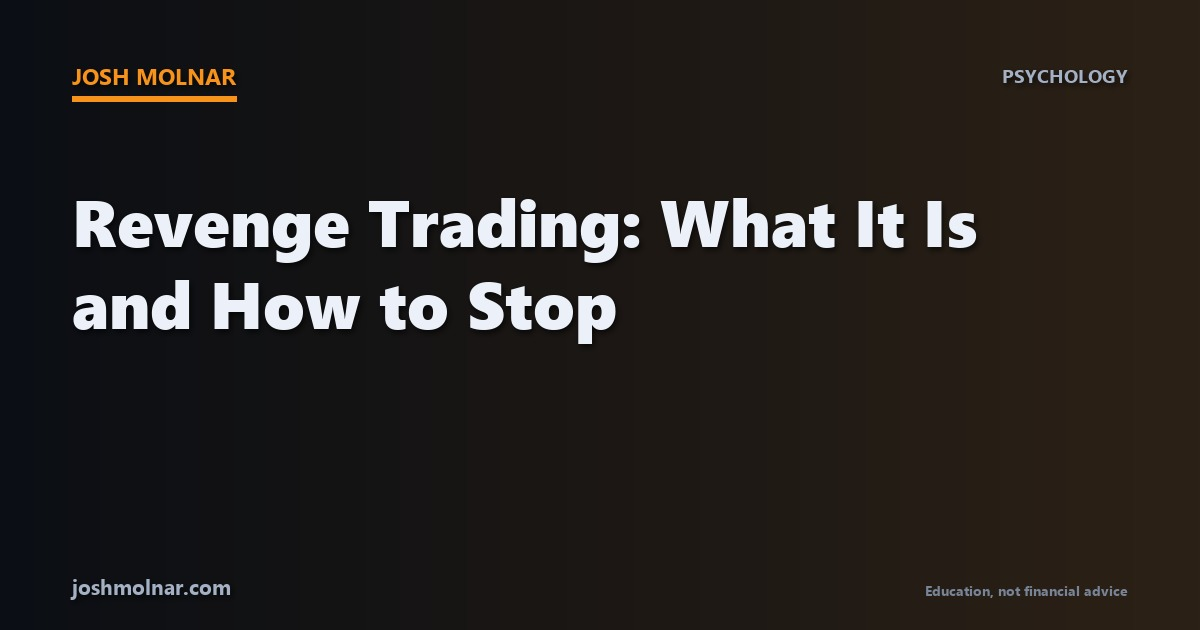
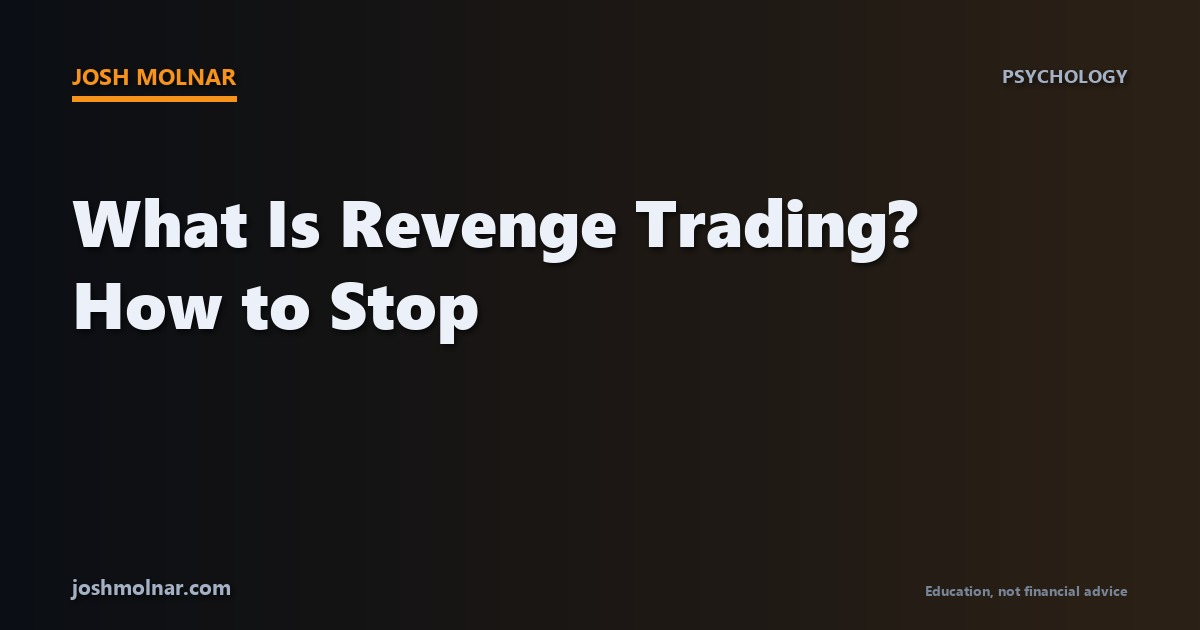
blog: What Is Revenge Trading? How to Stop

Changed region(s): [[0.0617, 0.3016, 0.8325, 0.4222], [0.0617, 0.4524, 0.5242, 0.5429]]

diff --git a/blog/revenge-trading.html b/blog/revenge-trading.html
@@ -3,37 +3,37 @@
 <head>
   <meta charset="utf-8" />
   <meta name="viewport" content="width=device-width, initial-scale=1" />
-  <title>Revenge Trading: What It Is and How to Stop | Josh Molnar</title>
-  <meta name="description" content="Revenge trading destroys more accounts than bad strategies. Learn what it is, why it happens, and the simple rules that stop it." />
+  <title>What Is Revenge Trading? How to Stop | Josh Molnar</title>
+  <meta name="description" content="What is revenge trading and why does it destroy accounts? Learn what causes it, how to recognize it, and simple steps to stop revenge trading for good." />
   <link rel="canonical" href="https://joshmolnar.com/blog/revenge-trading.html" />
   <meta property="og:type" content="article" />
-  <meta property="og:title" content="Revenge Trading: What It Is and How to Stop" />
-  <meta property="og:description" content="You lost a trade. Now you want it back. That next click is the most expensive mistake in trading." />
+  <meta property="og:title" content="What Is Revenge Trading? How to Stop" />
+  <meta property="og:description" content="Revenge trading is not a strategy. It is your emotions placing the next trade for you." />
   <meta property="og:url" content="https://joshmolnar.com/blog/revenge-trading.html" />
   <meta property="og:image" content="https://joshmolnar.com/assets/blog/revenge-trading.jpg" />
   <meta property="og:image:width" content="1200" />
   <meta property="og:image:height" content="630" />
   <meta name="twitter:card" content="summary_large_image" />
-  <meta name="twitter:title" content="Revenge Trading: What It Is and How to Stop" />
-  <meta name="twitter:description" content="You lost a trade. Now you want it back. That next click is the most expensive mistake in trading." />
+  <meta name="twitter:title" content="What Is Revenge Trading? How to Stop" />
+  <meta name="twitter:description" content="Revenge trading is not a strategy. It is your emotions placing the next trade for you." />
   <meta name="twitter:image" content="https://joshmolnar.com/assets/blog/revenge-trading.jpg" />
   <link rel="stylesheet" href="/styles.css" />
   <script type="application/ld+json">
   {
     "@context": "https://schema.org",
     "@type": "BlogPosting",
-    "headline": "Revenge Trading: What It Is and How to Stop",
+    "headline": "What Is Revenge Trading? How to Stop",
     "image": "https://joshmolnar.com/assets/blog/revenge-trading.jpg",
-    "description": "Revenge trading destroys more accounts than bad strategies. Learn what it is, why it happens, and the simple rules that stop it.",
-    "datePublished": "2026-06-19",
-    "dateModified": "2026-06-19",
+    "description": "What is revenge trading and why does it destroy accounts? Learn what causes it, how to recognize it, and simple steps to stop revenge trading for good.",
+    "datePublished": "2026-10-31",
+    "dateModified": "2026-10-31",
     "mainEntityOfPage": "https://joshmolnar.com/blog/revenge-trading.html",
     "author": { "@type": "Person", "@id": "https://joshmolnar.com/#person", "name": "Josh Molnar", "url": "https://joshmolnar.com/" },
     "publisher": { "@type": "Person", "@id": "https://joshmolnar.com/#person", "name": "Josh Molnar" }
   }
   </script>
   <script type="application/ld+json">
-  {"@context": "https://schema.org", "@type": "FAQPage", "mainEntity": [{"@type": "Question", "name": "What is revenge trading?", "acceptedAnswer": {"@type": "Answer", "text": "Revenge trading is entering a trade to recover a loss rather than following your normal process. The motivation shifts from a real setup to an emotional need to erase the pain of losing."}}, {"@type": "Question", "name": "Why is revenge trading so dangerous?", "acceptedAnswer": {"@type": "Answer", "text": "Because it changes two things at once: your position size goes up and your trade quality goes down. That combination can turn a small, survivable loss into a serious account hit in minutes."}}, {"@type": "Question", "name": "How do I stop revenge trading?", "acceptedAnswer": {"@type": "Answer", "text": "Set a daily loss limit and honor it, take a short break after every loss, and keep your position size constant. Build rules that remove the opportunity rather than relying on willpower in the moment."}}, {"@type": "Question", "name": "Is revenge trading the same as overtrading?", "acceptedAnswer": {"@type": "Answer", "text": "They overlap but are not identical. Overtrading is taking too many trades in general. Revenge trading is specifically trading to recover a loss. Revenge trading almost always leads to overtrading, but you can overtrade without the revenge trigger."}}, {"@type": "Question", "name": "Can experienced traders still revenge trade?", "acceptedAnswer": {"@type": "Answer", "text": "Yes. Experience reduces how often it happens but does not eliminate the impulse. Even experienced traders use rules like daily loss limits and mandatory breaks because the emotional wiring does not go away with skill."}}]}
+  {"@context": "https://schema.org", "@type": "FAQPage", "mainEntity": [{"@type": "Question", "name": "What is revenge trading?", "acceptedAnswer": {"@type": "Answer", "text": "Revenge trading is when you take a trade purely to recover a recent loss, without following your plan or rules. It is driven by emotion, not by a real setup."}}, {"@type": "Question", "name": "Why is revenge trading so dangerous?", "acceptedAnswer": {"@type": "Answer", "text": "Because one unplanned trade usually leads to several more, each bigger and sloppier than the last. A single manageable loss can spiral into a blown account in minutes."}}, {"@type": "Question", "name": "How do I stop revenge trading?", "acceptedAnswer": {"@type": "Answer", "text": "Set a hard daily loss limit, use a cooldown timer after every loss, and require yourself to write down the setup before entering the next trade. Systems beat willpower."}}, {"@type": "Question", "name": "Is revenge trading the same as overtrading?", "acceptedAnswer": {"@type": "Answer", "text": "They overlap but they are not identical. Overtrading means taking too many trades in general. Revenge trading is specifically triggered by a recent loss and the urge to win it back."}}]}
   </script>
 </head>
 <body>
@@ -57,62 +57,62 @@
     <section class="block" style="border-bottom:none">
       <div class="wrap">
         <article class="post">
-          <h1>Revenge Trading: What It Is and How to Stop</h1>
-          <div class="meta">By Josh Molnar &middot; June 2026 &middot; 6 min read</div>
+          <h1>What Is Revenge Trading? How to Stop</h1>
+          <div class="meta">By Josh Molnar &middot; October 2026 &middot; 6 min read</div>
 
           <figure class="post-hero">
-            <img src="/assets/blog/revenge-trading.jpg" alt="Branded card about revenge trading and how to stop it from Josh Molnar" />
+            <img src="/assets/blog/revenge-trading.jpg" alt="Branded card about revenge trading psychology for traders by Josh Molnar" />
           </figure>
-<p>Revenge trading has probably cost more traders their accounts than any bad strategy ever has. I know because I have done it, and because I watch the people I mentor fight the same impulse every week. You take a loss, you feel the sting, and before you have even processed what happened you are back in the market trying to win it back. That next trade is almost never about a setup. It is about a feeling. And feelings are terrible trading signals.</p>
+<p>Revenge trading is one of those things almost every trader has done at least once. You take a loss, you feel frustrated, and instead of walking away you immediately jump back in to win it back. The next trade is not about your setup or your plan. It is about the loss you just took. That is revenge trading, and it is one of the fastest ways to turn a bad day into a catastrophic one.</p>
 
 <h2>What is revenge trading?</h2>
-<p>Revenge trading is when you enter a trade to recover a loss instead of following your normal process. The loss made you angry, frustrated, or embarrassed, and the next trade is an attempt to erase that feeling rather than a response to a real opportunity. It usually looks like one of these:</p>
-<ul>
-<li>Jumping right back in after a loss without waiting for a proper setup.</li>
-<li>Doubling your position size to &ldquo;make it back faster.&rdquo;</li>
-<li>Trading an asset or timeframe you do not normally trade, because yours is not moving.</li>
-<li>Ignoring your rules entirely because you feel like you are owed a winner.</li>
-</ul>
-<p>The common thread is that the <strong>motivation shifted from process to emotion</strong>. That shift is what makes it so dangerous.</p>
+<p>Revenge trading is when you take a trade purely because you want to recover a recent loss. It is not planned. It does not follow your rules. The only reason you are clicking the button is because you are angry, frustrated, or embarrassed about the loss that just happened. The trade feels urgent, like you need to fix something right now. That urgency is the tell.</p>
+<p>The problem is that this next trade almost never fixes anything. You are trading from emotion, not from your <a href='/blog/what-is-a-trading-edge.html'>trading edge</a>. And when you trade without an edge, you are just gambling with extra steps.</p>
 
 <h2>Why revenge trading destroys accounts</h2>
-<p>A single losing trade, with proper risk, costs you maybe 1 percent of your account. That is a paper cut. But a revenge trade turns that paper cut into something much worse because two things change at once: your sizing goes up and your selectivity goes down. You are now taking a bigger bet on a worse idea.</p>
-<p>Here is the math that matters. Say you risk <a href='/blog/how-much-to-risk-per-trade.html'>1 percent per trade</a> and lose three times in a row. You are down about 3 percent. Annoying, completely survivable. Now say you revenge trade after the first loss, double your size, take a sloppy setup, and lose again. Then you do it a third time. Instead of being down 3 percent, you could be down 7 or 8 percent in an hour. On a <a href='/prop-firm-trading.html'>prop firm account</a>, that single hour might breach the daily loss limit and end the account entirely.</p>
-<p>That is why revenge trading is not just a bad habit. It is a risk management failure disguised as a psychology problem.</p>
+<p>A single loss, even a painful one, rarely ends a trading career. What ends careers is the chain reaction after that loss. Here is how it usually plays out.</p>
+<ul>
+<li>You take a normal loss. It stings but it is within your plan.</li>
+<li>Instead of stepping away, you take another trade immediately. This one is bigger, or sloppier, or both.</li>
+<li>That trade loses too. Now you are down twice as much and twice as angry.</li>
+<li>You take a third trade, even bigger. By now your rules are completely out the window.</li>
+</ul>
+<p>One loss becomes three, four, five. Your daily loss doubles or triples in minutes. If you trade <a href='/prop-firm-trading.html'>prop firm accounts</a>, this is exactly how people breach their daily loss limit and lose the account in a single session. The original loss was survivable. The revenge spiral was not.</p>
 
-<h2>Why your brain pushes you toward it</h2>
-<p>This is not a willpower issue. Your brain is wired to hate losing more than it enjoys winning. After a loss, your mind wants to fix the pain immediately. The fastest fix it can think of is to trade again and win. The problem is that urgency overrides everything you know about your process. You are not thinking about setups, stops, or position size. You are thinking about making the red number go away.</p>
-<p>Knowing this does not make you immune. But it does let you build systems around it instead of relying on discipline in the moment, because discipline in the moment is exactly what disappears when you need it most.</p>
+<h2>How to recognize it in yourself</h2>
+<p>Revenge trading is easy to spot in hindsight but hard to catch in real time. That is what makes it dangerous. Here are the warning signs to watch for.</p>
+<ul>
+<li><strong>Speed.</strong> You enter the next trade within seconds or minutes of the last loss, without any real analysis.</li>
+<li><strong>Size.</strong> You increase your position size to make back the loss faster.</li>
+<li><strong>Anger.</strong> You feel a physical tension, a clenched jaw, a tight chest, a need to prove something.</li>
+<li><strong>No setup.</strong> If someone asked you to explain the trade, you could not point to a rule in your plan that triggered it.</li>
+</ul>
+<p>If even one of those is true, you are probably revenge trading. Two or more and there is no question.</p>
 
 <h2>How to stop revenge trading</h2>
-<p>What I tell the traders I mentor is simple: do not try to out-willpower it. Build rules that catch it before it starts.</p>
-<ul>
-<li><strong>Set a daily loss limit and honor it.</strong> If you lose a set number of trades or a set percentage of your account in one session, you are done for the day. Close the charts. This is the single most effective rule because it removes the opportunity entirely.</li>
-<li><strong>Take a break after every loss.</strong> Even five minutes. Walk away from the screen. The goal is to break the loop between the emotional sting and the next click. Most revenge trades happen within 60 seconds of the loss.</li>
-<li><strong>Write down why you are entering.</strong> Before every trade, write one sentence about the setup. If you cannot describe a real setup, you are trading a feeling, and that trade does not get taken.</li>
-<li><strong>Keep your size constant.</strong> Decide your <a href='/trading-for-a-living.html'>risk per trade</a> before the session starts and do not change it. Doubling up after a loss is the mechanical signature of revenge trading. Fixed sizing makes it structurally impossible.</li>
-<li><strong>Review at the end of the day, not during it.</strong> The time to analyze what went wrong is after the session, when the emotion has cooled. During the session, your only job is to follow the plan or stop trading.</li>
-</ul>
+<p>The fix is not willpower. Willpower fails when emotions are running hot. You need systems that make revenge trading physically harder to do.</p>
+<p><strong>Set a daily loss limit and enforce it.</strong> Decide before the day starts that if you lose a certain amount, you are done. Not &ldquo;maybe done.&rdquo; Done. Close the platform. I use a hard daily cap on every account I trade, and when I hit it, the screen goes off. No exceptions. I wrote about this in detail in my post on <a href='/blog/daily-loss-limit-trading.html'>daily loss limits</a>.</p>
+<p><strong>Use a cooldown timer.</strong> After any loss, wait a fixed amount of time before your next trade. Even five or ten minutes is enough to let the emotional spike pass. The best trades do not require speed. If the opportunity is real, it will still be there after a short break.</p>
+<p><strong>Write before you trade.</strong> Before entering the next trade after a loss, write down the setup in one sentence. If you cannot describe it clearly, you do not have a trade. You have an impulse. A <a href='/trading-for-a-living.html'>trading for a living</a> mindset means treating every entry like a business decision, not an emotional reaction.</p>
+<p><strong>Reduce size after a loss.</strong> Some traders cut their position size in half after a losing trade. This does two things. It limits the damage if the revenge impulse sneaks through. And it forces you to accept smaller potential gains, which removes the &ldquo;win it all back&rdquo; fantasy that drives the behavior.</p>
 
-<h2>The real fix is a process you trust</h2>
-<p>Revenge trading is a symptom. The disease is not having a process you genuinely trust. When you know your method works over a large number of trades, a single loss feels like what it actually is: one data point in a long series. It stings less because you understand that losing trades are built into the plan. They are the cost of doing business, not a problem to fix in real time.</p>
-<p>If you do not yet have that trust, build it. Test your process on a small account or a simulator until you have seen enough trades to believe in the numbers. The traders who survive are not the ones who never feel the urge to revenge trade. They are the ones who built a structure that keeps them from acting on it.</p>
-<p>I break down the other mistakes that wipe people out in <a href='/blog/crypto-trading-mistakes.html'>the 5 mistakes that end 95% of new crypto traders</a>. Revenge trading is on that list for a reason: it is the most common way that one bad trade becomes ten.</p>
+<h2>The real lesson</h2>
+<p>Revenge trading is not a strategy problem. It is a self-awareness problem. The market does not know or care that you just lost money. It is not punishing you, and it is not going to reward you for trying harder. Every trade is independent. The previous result has zero influence on what happens next.</p>
+<p>The traders who survive long enough to become profitable are not the ones who never feel the urge. They are the ones who built rules that protect them from acting on it. That is the difference between knowing something is bad for you and actually having a system that prevents it.</p>
+<p>If you are honest with yourself and you know this is a pattern, fix the system, not the feeling. The feeling is human. The system is what keeps you in the game.</p>
           <h2>Common questions</h2>
           <h3>What is revenge trading?</h3>
-          <p>Revenge trading is entering a trade to recover a loss rather than following your normal process. The motivation shifts from a real setup to an emotional need to erase the pain of losing.</p>
+          <p>Revenge trading is when you take a trade purely to recover a recent loss, without following your plan or rules. It is driven by emotion, not by a real setup.</p>
           <h3>Why is revenge trading so dangerous?</h3>
-          <p>Because it changes two things at once: your position size goes up and your trade quality goes down. That combination can turn a small, survivable loss into a serious account hit in minutes.</p>
+          <p>Because one unplanned trade usually leads to several more, each bigger and sloppier than the last. A single manageable loss can spiral into a blown account in minutes.</p>
           <h3>How do I stop revenge trading?</h3>
-          <p>Set a daily loss limit and honor it, take a short break after every loss, and keep your position size constant. Build rules that remove the opportunity rather than relying on willpower in the moment.</p>
+          <p>Set a hard daily loss limit, use a cooldown timer after every loss, and require yourself to write down the setup before entering the next trade. Systems beat willpower.</p>
           <h3>Is revenge trading the same as overtrading?</h3>
-          <p>They overlap but are not identical. Overtrading is taking too many trades in general. Revenge trading is specifically trading to recover a loss. Revenge trading almost always leads to overtrading, but you can overtrade without the revenge trigger.</p>
-          <h3>Can experienced traders still revenge trade?</h3>
-          <p>Yes. Experience reduces how often it happens but does not eliminate the impulse. Even experienced traders use rules like daily loss limits and mandatory breaks because the emotional wiring does not go away with skill.</p>
+          <p>They overlap but they are not identical. Overtrading means taking too many trades in general. Revenge trading is specifically triggered by a recent loss and the urge to win it back.</p>
           <h2>Keep reading</h2>
           <ul>
-            <li><a href="/blog/how-much-to-risk-per-trade.html">How Much Should You Risk Per Trade? The 1% Rule</a></li>
-            <li><a href="/blog/crypto-trading-mistakes.html">The 5 Mistakes That Wipe Out 95% of New Crypto Traders</a></li>
+            <li><a href="/blog/daily-loss-limit-trading.html">What Is a Daily Loss Limit and Why Every Trader Needs One</a></li>
+            <li><a href="/blog/trading-tilt.html">Trading Tilt: How to Recognize It and Reset</a></li>
           </ul>
           <p>I trade and teach this for a living. I post free breakdowns on <a href="https://www.instagram.com/bitcoin.daily/" rel="noopener">Instagram</a> and <a href="https://www.youtube.com/@BitcoinDailyTV" rel="noopener">YouTube</a>, and you can trade alongside me and the community at <a href="https://bitcoindaily.vip" rel="noopener">bitcoindaily.vip</a>. For one-on-one help, <a href="https://bitcoindaily.app" rel="noopener">work with me directly</a>.</p>
           <p><em>Nothing here is financial advice. Trading carries a real risk of loss and most traders lose money. Never trade money you cannot afford to lose.</em></p>

diff --git a/blog/psychology/index.html b/blog/psychology/index.html
@@ -12,7 +12,7 @@
   <meta property="og:url" content="https://joshmolnar.com/blog/psychology/" />
   <link rel="stylesheet" href="/styles.css" />
   <script type="application/ld+json">
-  {"@context": "https://schema.org", "@type": "CollectionPage", "name": "Trading Psychology", "description": "Why most traders lose, and the mindset habits that separate the survivors.", "url": "https://joshmolnar.com/blog/psychology/", "mainEntity": {"@type": "ItemList", "itemListElement": [{"@type": "ListItem", "position": 1, "url": "https://joshmolnar.com/blog/losing-streak-trading.html", "name": "How to Handle a Losing Streak in Trading"}, {"@type": "ListItem", "position": 2, "url": "https://joshmolnar.com/blog/overtrading.html", "name": "Overtrading: How to Know When You Take Too Many Trades"}, {"@type": "ListItem", "position": 3, "url": "https://joshmolnar.com/blog/why-most-day-traders-lose.html", "name": "Why Most Day Traders Lose Money"}, {"@type": "ListItem", "position": 4, "url": "https://joshmolnar.com/blog/revenge-trading.html", "name": "Revenge Trading: What It Is and How to Stop"}, {"@type": "ListItem", "position": 5, "url": "https://joshmolnar.com/blog/crypto-trading-mistakes.html", "name": "The 5 Mistakes That Wipe Out 95% of New Crypto Traders"}]}}
+  {"@context": "https://schema.org", "@type": "CollectionPage", "name": "Trading Psychology", "description": "Why most traders lose, and the mindset habits that separate the survivors.", "url": "https://joshmolnar.com/blog/psychology/", "mainEntity": {"@type": "ItemList", "itemListElement": [{"@type": "ListItem", "position": 1, "url": "https://joshmolnar.com/blog/revenge-trading.html", "name": "What Is Revenge Trading? How to Stop"}, {"@type": "ListItem", "position": 2, "url": "https://joshmolnar.com/blog/losing-streak-trading.html", "name": "How to Handle a Losing Streak in Trading"}, {"@type": "ListItem", "position": 3, "url": "https://joshmolnar.com/blog/overtrading.html", "name": "Overtrading: How to Know When You Take Too Many Trades"}, {"@type": "ListItem", "position": 4, "url": "https://joshmolnar.com/blog/why-most-day-traders-lose.html", "name": "Why Most Day Traders Lose Money"}, {"@type": "ListItem", "position": 5, "url": "https://joshmolnar.com/blog/crypto-trading-mistakes.html", "name": "The 5 Mistakes That Wipe Out 95% of New Crypto Traders"}]}}
   </script>
   <!-- Cloudflare Web Analytics --><script defer src="https://static.cloudflareinsights.com/beacon.min.js" data-cf-beacon='{"token": "a646682a2f904c8b90a2f706d30c760f"}'></script><!-- End Cloudflare Web Analytics -->
 </head>
@@ -54,6 +54,12 @@
         </div>
         <div class="post-list">
           <div class="post-card">
+            <a class="thumb-link" href="/blog/revenge-trading.html"><img class="thumb" src="/assets/blog/revenge-trading.jpg" alt="" loading="lazy" /></a>
+            <h3><a href="/blog/revenge-trading.html">What Is Revenge Trading? How to Stop</a></h3>
+            <div class="meta">October 2026 &middot; Josh Molnar &middot; <a class="cat-tag" href="/blog/psychology/">Trading Psychology</a></div>
+            <p>Revenge trading is what happens when you let a loss make the next decision for you, and it is one of the fastest ways to destroy a trading account.</p>
+          </div>
+          <div class="post-card">
             <a class="thumb-link" href="/blog/losing-streak-trading.html"><img class="thumb" src="/assets/blog/losing-streak-trading.jpg" alt="" loading="lazy" /></a>
             <h3><a href="/blog/losing-streak-trading.html">How to Handle a Losing Streak in Trading</a></h3>
             <div class="meta">June 2026 &middot; Josh Molnar &middot; <a class="cat-tag" href="/blog/psychology/">Trading Psychology</a></div>
@@ -70,12 +76,6 @@
             <h3><a href="/blog/why-most-day-traders-lose.html">Why Most Day Traders Lose Money</a></h3>
             <div class="meta">June 2026 &middot; Josh Molnar &middot; <a class="cat-tag" href="/blog/psychology/">Trading Psychology</a></div>
             <p>The research is clear: the vast majority of day traders lose money, and the reasons come down to a few fixable mistakes that almost everyone makes.</p>
-          </div>
-          <div class="post-card">
-            <a class="thumb-link" href="/blog/revenge-trading.html"><img class="thumb" src="/assets/blog/revenge-trading.jpg" alt="" loading="lazy" /></a>
-            <h3><a href="/blog/revenge-trading.html">Revenge Trading: What It Is and How to Stop</a></h3>
-            <div class="meta">June 2026 &middot; Josh Molnar &middot; <a class="cat-tag" href="/blog/psychology/">Trading Psychology</a></div>
-            <p>Revenge trading is the single fastest way to turn one bad trade into a blown account, and stopping it is simpler than you think.</p>
           </div>
           <div class="post-card">
             <a class="thumb-link" href="/blog/crypto-trading-mistakes.html"><img class="thumb" src="/assets/blog/crypto-trading-mistakes.jpg" alt="" loading="lazy" /></a>

diff --git a/blog/index.html b/blog/index.html
@@ -54,6 +54,12 @@
         </div>
         <p class="blog-empty" hidden>No posts match. Try another topic or clear the search.</p>
         <div class="post-list">
+          <div class="post-card" data-cat="psychology" data-text="what is revenge trading? how to stop revenge trading is what happens when you let a loss make the next decision for you, and it is one of the fastest ways to destroy a trading account.">
+            <a class="thumb-link" href="/blog/revenge-trading.html"><img class="thumb" src="/assets/blog/revenge-trading.jpg" alt="" loading="lazy" /></a>
+            <h3><a href="/blog/revenge-trading.html">What Is Revenge Trading? How to Stop</a></h3>
+            <div class="meta">October 2026 &middot; Josh Molnar &middot; <a class="cat-tag" href="/blog/psychology/">Trading Psychology</a></div>
+            <p>Revenge trading is what happens when you let a loss make the next decision for you, and it is one of the fastest ways to destroy a trading account.</p>
+          </div>
           <div class="post-card" data-cat="basics" data-text="how to trade through a drawdown every trader hits a drawdown, and what you do inside it decides whether you survive or blow up.">
             <a class="thumb-link" href="/blog/how-to-trade-through-a-drawdown.html"><img class="thumb" src="/assets/blog/how-to-trade-through-a-drawdown.jpg" alt="" loading="lazy" /></a>
             <h3><a href="/blog/how-to-trade-through-a-drawdown.html">How to Trade Through a Drawdown</a></h3>
@@ -833,12 +839,6 @@
             <h3><a href="/blog/why-most-day-traders-lose.html">Why Most Day Traders Lose Money</a></h3>
             <div class="meta">June 2026 &middot; Josh Molnar &middot; <a class="cat-tag" href="/blog/psychology/">Trading Psychology</a></div>
             <p>The research is clear: the vast majority of day traders lose money, and the reasons come down to a few fixable mistakes that almost everyone makes.</p>
-          </div>
-          <div class="post-card" data-cat="psychology" data-text="revenge trading: what it is and how to stop revenge trading is the single fastest way to turn one bad trade into a blown account, and stopping it is simpler than you think.">
-            <a class="thumb-link" href="/blog/revenge-trading.html"><img class="thumb" src="/assets/blog/revenge-trading.jpg" alt="" loading="lazy" /></a>
-            <h3><a href="/blog/revenge-trading.html">Revenge Trading: What It Is and How to Stop</a></h3>
-            <div class="meta">June 2026 &middot; Josh Molnar &middot; <a class="cat-tag" href="/blog/psychology/">Trading Psychology</a></div>
-            <p>Revenge trading is the single fastest way to turn one bad trade into a blown account, and stopping it is simpler than you think.</p>
           </div>
           <div class="post-card" data-cat="prop-firms" data-text="trailing drawdown vs static drawdown: what prop firm traders need to know the drawdown rule you sign up for shapes every trade you take on a funded account, and most traders do not fully understand the difference until it is too late.">
             <a class="thumb-link" href="/blog/trailing-drawdown-vs-static-drawdown.html"><img class="thumb" src="/assets/blog/trailing-drawdown-vs-static-drawdown.jpg" alt="" loading="lazy" /></a>
